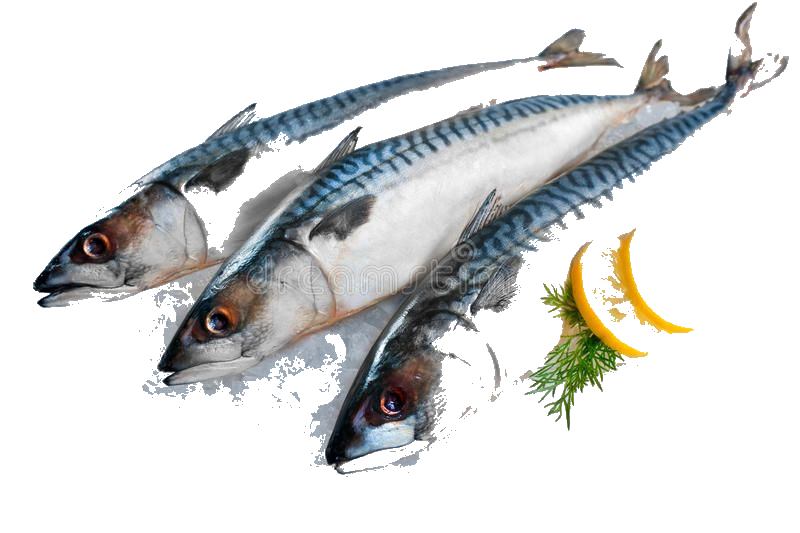
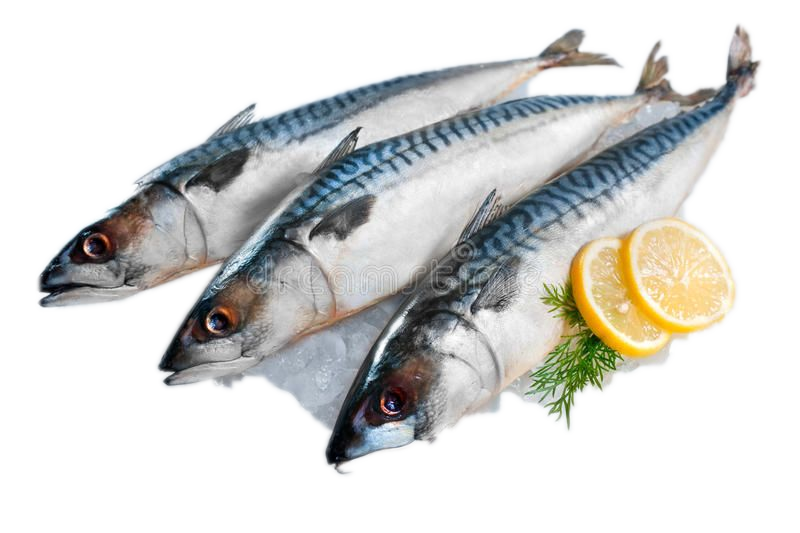
fish

diff --git a/index.html b/index.html
@@ -53,7 +53,7 @@ html,body{width:100%;height:100%;overflow:hidden;font-family:'Inter',sans-serif;
 
 /* Cat Grid */
 .cat-grid{display:grid;grid-template-columns:1fr 1fr 1fr;grid-template-rows:1fr 1fr;gap:7px;}
-.cat{border-radius:12px;padding:10px 12px;position:relative;overflow:hidden;cursor:pointer;display:flex;flex-direction:column;justify-content:space-between;transition:all .2s;}
+.cat{border-radius:12px;padding:10px 12px;position:relative;overflow:hidden;cursor:pointer;display:flex;flex-direction:column;justify-content:space-between;transition:all .2s;min-height:110px;}
 .cat:hover{transform:translateY(-2px);box-shadow:0 6px 18px rgba(0,0,0,.18);}
 .cat.fish{background:linear-gradient(135deg,#2E9FD5,#1F7BAF);}
 .cat.meat{background:linear-gradient(135deg,#E06A84,#C44A65);}
@@ -63,8 +63,8 @@ html,body{width:100%;height:100%;overflow:hidden;font-family:'Inter',sans-serif;
 .cat-name{font-size:15px;font-weight:700;color:#fff;}
 .cat-cnt{font-size:10px;color:rgba(255,255,255,.9);margin-top:1px;}
 .cat-arr{width:24px;height:24px;border-radius:50%;background:rgba(255,255,255,.9);display:flex;align-items:center;justify-content:center;color:#333;font-size:12px;font-weight:700;align-self:flex-start;}
-.cimg{position:absolute;right:0;top:0;height:100%;width:52%;object-fit:contain;object-position:right center;border-radius:0 12px 12px 0;}
-.eggs .cimg{width:32%;right:10px;border-radius:8px;object-position:center;}
+.cimg{position:absolute;right:-5px;bottom:-5px;top:auto;height:90%;width:55%;object-fit:contain;object-position:right bottom;border-radius:0 12px 12px 0;max-width:120px;}
+.eggs .cimg{width:35%;right:5px;height:90%;object-position:right bottom;}
 
 /* ROW 2 */
 .r2{display:grid;grid-template-columns:1.4fr 1fr;gap:7px;flex:1;min-height:0;}